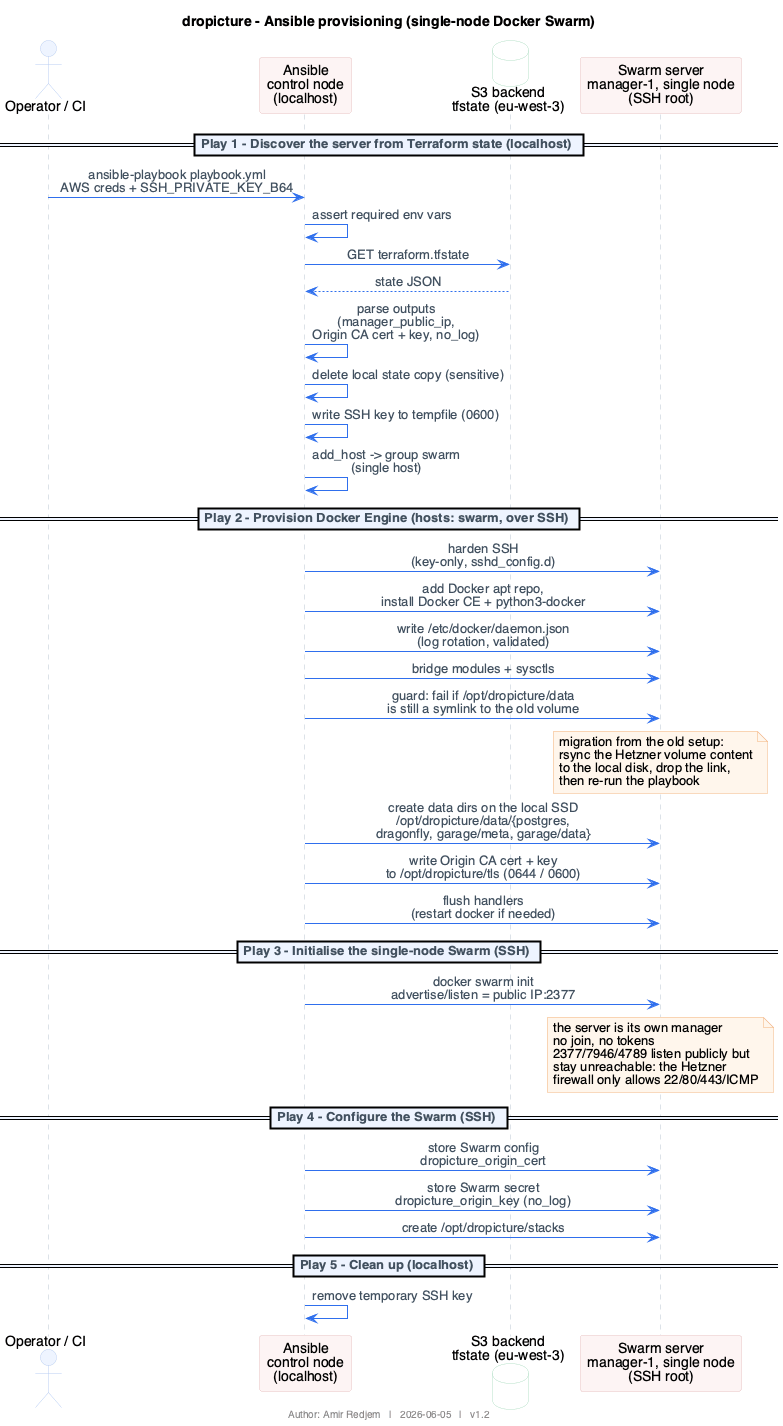
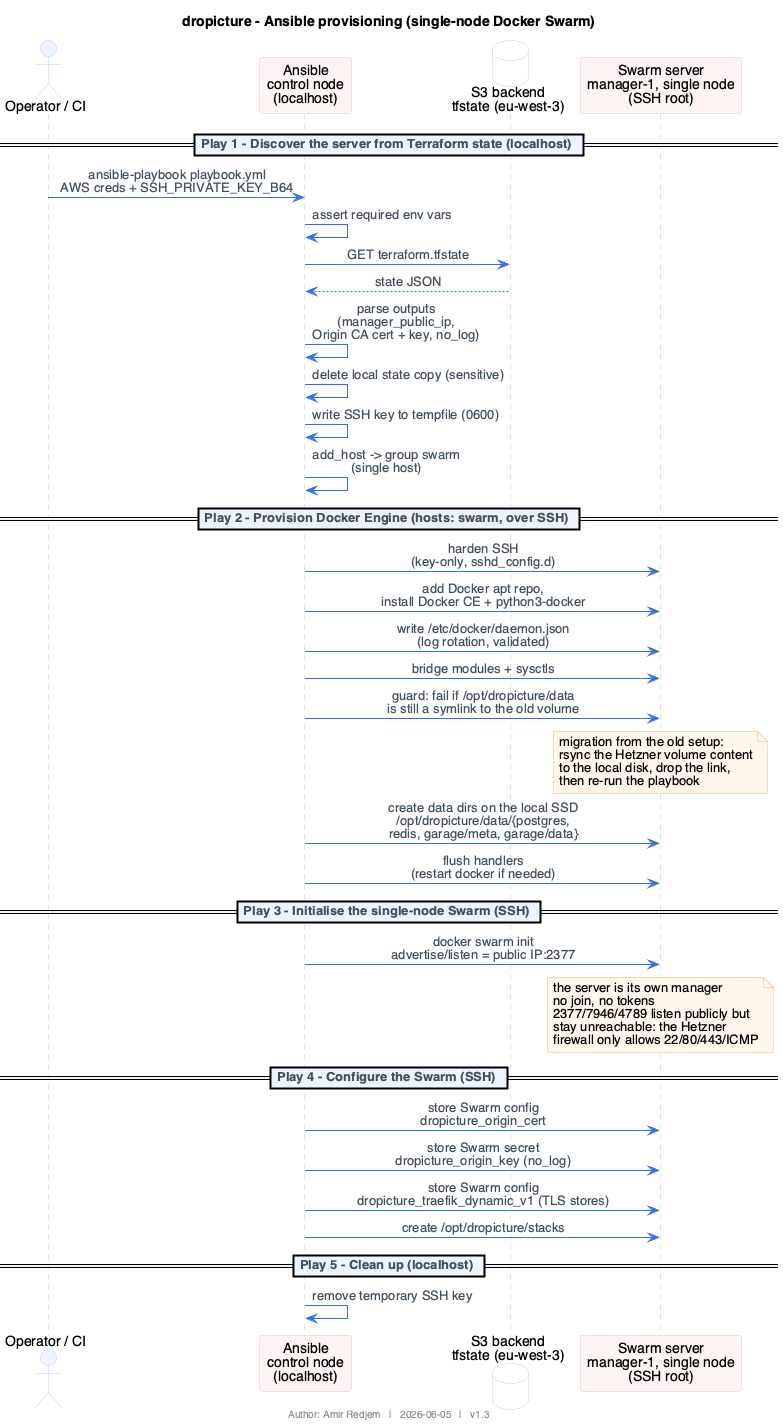
docs: adjust the diagrams

Changed region(s): [[0.2759, 0.5554, 0.9808, 0.8022], [0.3372, 0.7405, 0.7663, 0.864]]

diff --git a/apps/backend/HELP.md b/apps/backend/HELP.md
@@ -22,7 +22,7 @@ key and the media bucket auto-created on first boot.
 
 ### 2. Backend — Environment variables
 
-Create the backend `.env` (in `app/backend/`), reusing the credentials from
+Create the backend `.env` (in `apps/backend/`), reusing the credentials from
 the **root** `.env` so the app matches what the containers were started with:
 
 ```bash
@@ -50,7 +50,7 @@ S3_SECRET_ACCESS_KEY=${S3_SECRET_ACCESS_KEY}
 EOF
 ```
 
-> **Notes:** this overwrites any existing `app/backend/.env` (`>` not `>>`).
+> **Notes:** this overwrites any existing `apps/backend/.env` (`>` not `>>`).
 > Never commit `.env` files — both are gitignored. Don't generate fresh
 > random credentials here: the containers were initialised with the root
 > `.env` values, and Garage only reads its key on **first** boot.
